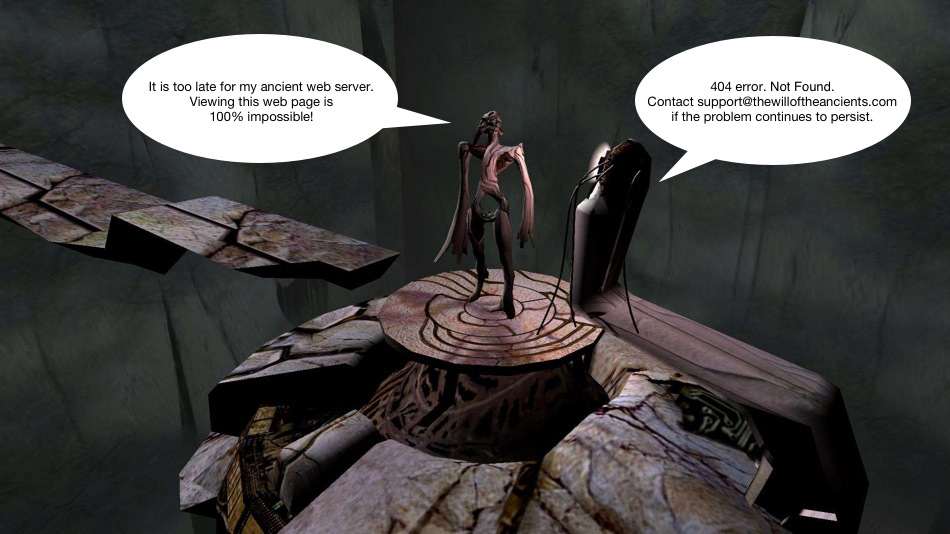
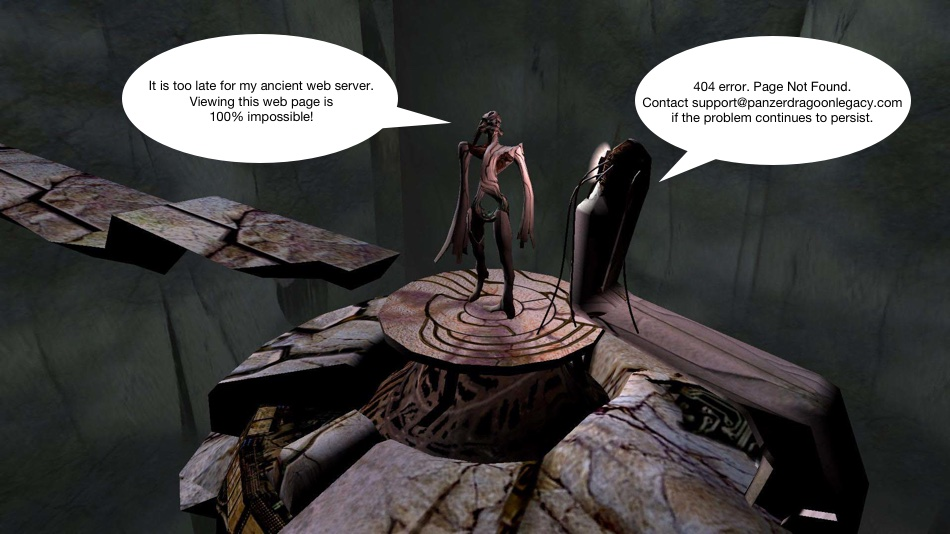
Update the site name to Panzer Dragoon Legacy

Changed region(s): [[0.6716, 0.1498, 0.9463, 0.2397], [0.1526, 0.1498, 0.3968, 0.1798]]

diff --git a/config/deploy.rb b/config/deploy.rb
@@ -1,7 +1,7 @@
 require 'rvm/capistrano'
 require 'bundler/capistrano'
 
-set :application, "thewilloftheancients"
+set :application, "panzerdragoonlegacy"
 
 role :web, "178.62.191.241"                # Your HTTP server, Apache/etc
 role :app, "178.62.191.241"                # This may be the same as your `Web` server
@@ -12,7 +12,7 @@ set :deploy_to, "/home/thewilloftheancients/site"
 set :use_sudo, false
 
 set :scm, "git"
-set :repository,  "https://chrisalley@github.com/chrisalley/the-will-of-the-ancients.git"
+set :repository,  "https://chrisalley@github.com/chrisalley/panzer-dragoon-legacy.git"
 set :branch, "master"
 
 set :rails_env, "production"

diff --git a/config/environments/production.rb b/config/environments/production.rb
@@ -93,7 +93,7 @@ Rails.application.configure do
   config.logger = Logger.new("#{Rails.root}/log/#{Rails.env}.log", 1, 104857600)
 
   # Mail configuration.
-  config.action_mailer.default_url_options = { host: 'thewilloftheancients.com' }
+  config.action_mailer.default_url_options = { host: 'panzerdragoonlegacy.com' }
   config.action_mailer.delivery_method = :smtp
   config.action_mailer.perform_deliveries = true
   config.action_mailer.raise_delivery_errors = false

diff --git a/app/models/news_entry.rb b/app/models/news_entry.rb
@@ -21,7 +21,7 @@ class NewsEntry < ActiveRecord::Base
   def post_news_entry_to_twitter
     # Ensure that tweets aren't posted to Twitter when running RSpec:
     if Rails.env == 'production'
-      full_url = "http://www.thewilloftheancients.com/news/" + self.url
+      full_url = "http://www.panzerdragoonlegacy.com/news/" + self.url
 
       # Get Twitter authentication details from secrets.yml
       client = Twitter::REST::Client.new do |config|

diff --git a/config/initializers/devise.rb b/config/initializers/devise.rb
@@ -12,7 +12,7 @@ Devise.setup do |config|
   # Configure the e-mail address which will be shown in Devise::Mailer,
   # note that it will be overwritten if you use your own mailer class
   # with default "from" parameter.
-  config.mailer_sender = 'support@thewilloftheancients.com'
+  config.mailer_sender = 'support@panzerdragoonlegacy.com'
 
   # Configure the class responsible to send e-mails.
   # config.mailer = 'Devise::Mailer'

diff --git a/config/application.rb b/config/application.rb
@@ -4,7 +4,7 @@ require 'rails/all'
 
 Bundler.require(*Rails.groups)
 
-module TheWillOfTheAncients
+module PanzerDragoonLegacy
   class Application < Rails::Application
     # Settings in config/environments/* take precedence over those specified here.
     # Application configuration should go into files in config/initializers

diff --git a/app/controllers/searches_controller.rb b/app/controllers/searches_controller.rb
@@ -3,7 +3,7 @@ class SearchesController < ApplicationController
 
   def create
     sanitized_query = Sanitize.fragment params[:query]
-    redirect_to "https://duckduckgo.com/?q=site:thewilloftheancients.com+" + 
+    redirect_to "https://duckduckgo.com/?q=site:panzerdragoonlegacy.com+" + 
       sanitized_query
   end
 end

diff --git a/config/initializers/session_store.rb b/config/initializers/session_store.rb
@@ -1,3 +1,3 @@
 # Be sure to restart your server when you modify this file.
 
-Rails.application.config.session_store :cookie_store, key: '_TheWillOfTheAncients_session'
+Rails.application.config.session_store :cookie_store, key: '_PanzerDragoonLegacy_session'

diff --git a/README.md b/README.md
@@ -1,8 +1,8 @@
-The Will of the Ancients
-========================
+Panzer Dragoon Legacy
+=====================
 
 A custom content management system for
-[thewilloftheancients.com](http://www.thewilloftheancients.com)
+[panzerdragoonlegacy.com](http://www.panzerdragoonlegacy.com)
 
 Installing the Project in Development
 -------------------------------------
@@ -14,8 +14,8 @@ You will also need to install ImageMagick for file attachments and PostgreSQL
 for the database. SQLite may be used in development for simplicity.
 
 ```
-git clone https://github.com/chrisalley/the-will-of-the-ancients.git
-cd the-will-of-the-ancients
+git clone https://github.com/chrisalley/panzer-dragoon-legacy.git
+cd panzer-dragoon-legacy
 cp config/examples/database.yml config/database.yml
 cp config/examples/secrets.yml config/secrets.yml
 bundle
